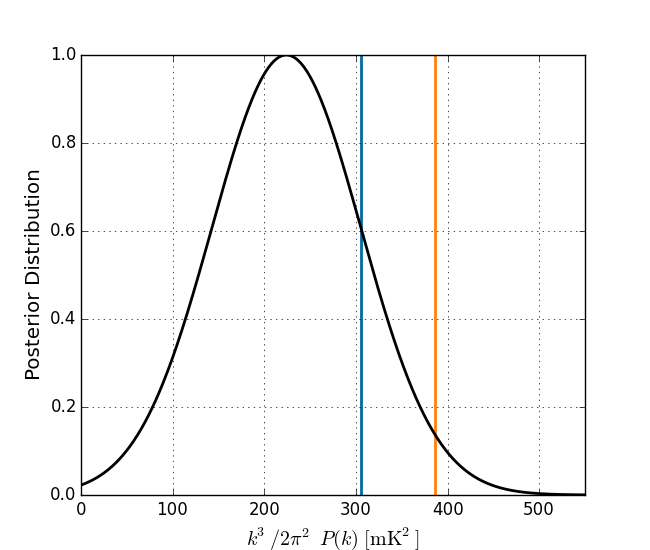
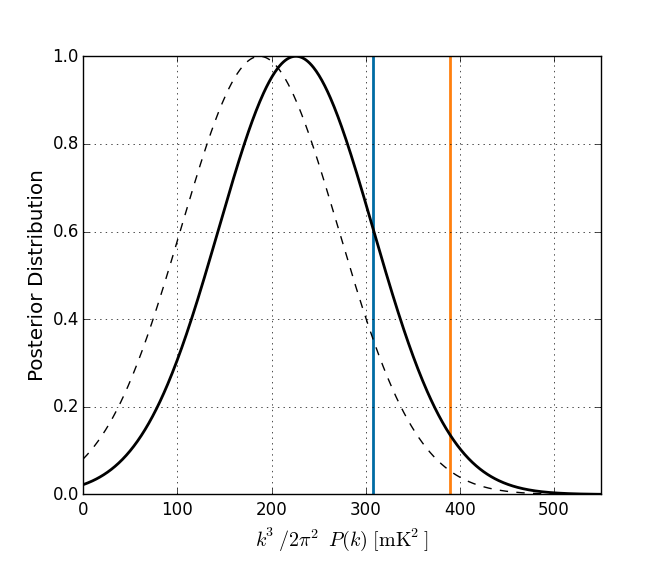
Added dashed line for posterior w/o k=0.35 point

diff --git a/plots/plot_pk_k3pk.py b/plots/plot_pk_k3pk.py
@@ -507,21 +507,29 @@ def posterior(kpl, pk, err, pkfold=None, errfold=None, f0=.151, umag=16.):
         print errfold
     pk= k**3 * pkfold/(2*n.pi**2)
     err = k**3 * errfold/(2*n.pi**2)
+    err_omit = err.copy()
+    err_omit[3] = 1e10 # give no weight to this point
+    print err_omit
     #s = n.logspace(1,3.5,100)
     s = n.linspace(-5000,5000,10000)
 #    print s
     data = []
+    data_omit = []
     print 'real pk used in posterior:\n\t', pk.real
     for ss in s:
         data.append(n.exp(-.5*n.sum((pk.real - ss)**2 / err**2)))
+        data_omit.append(n.exp(-.5*n.sum((pk.real - ss)**2 / err_omit**2)))
     #    print data[-1]
     data = n.array(data)
+    data_omit = n.array(data_omit)
     #print data
     #print s
     #data/=n.sum(data)
     data /= n.max(data)
+    data_omit /= n.max(data_omit)
     p.figure(5, figsize=(6.5,5.5))
     p.plot(s, data, 'k', linewidth=2)
+    p.plot(s, data_omit, 'k--', linewidth=1)
     #use a spline interpolator to get the 1 and 2 sigma limits.
     #spline = interp.interp1d(data,s)
     #print spline
